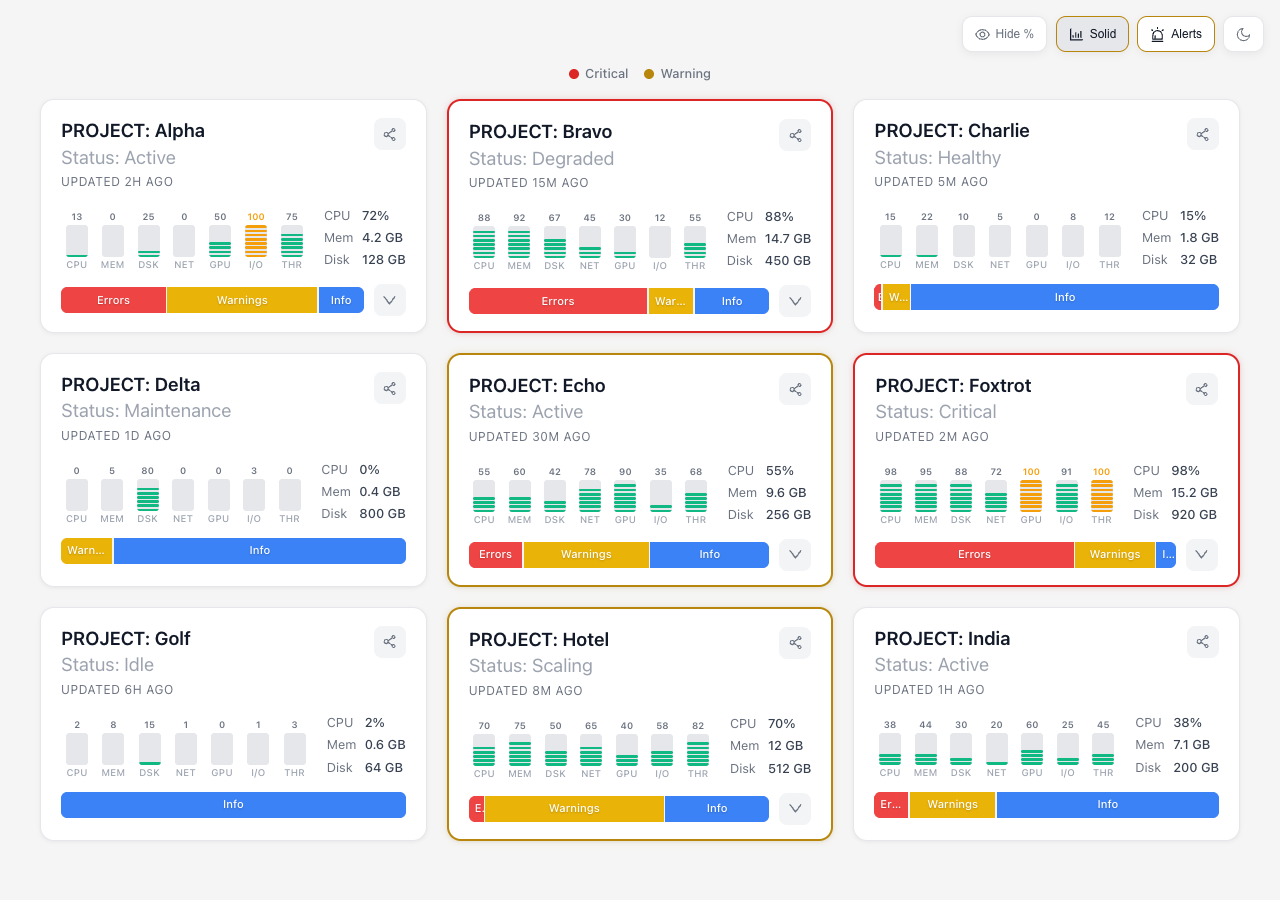
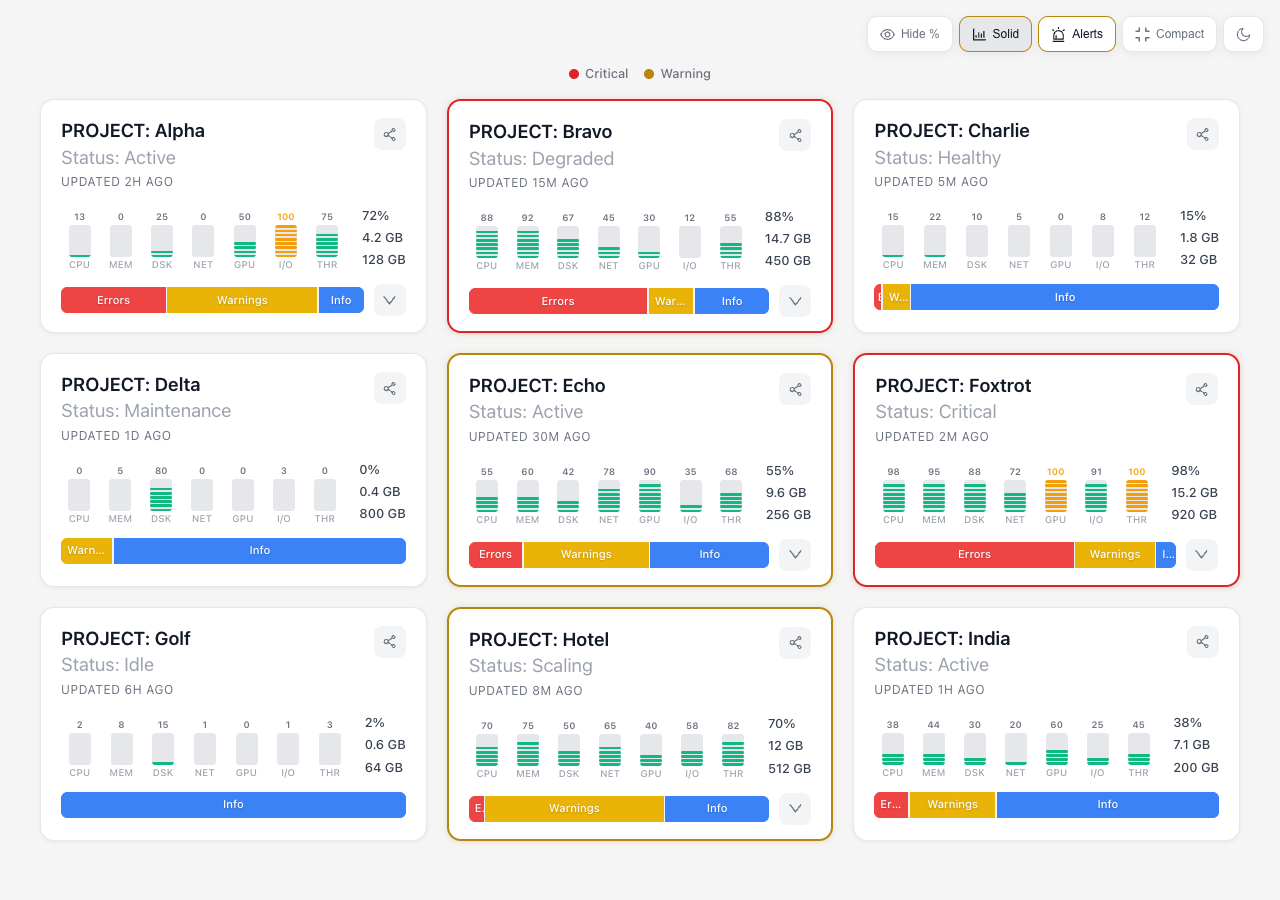
Update screenshots and README with compact view and responsive toolbar
- Light desktop: normal view with segmented gauges
- Dark desktop: compact view showing 4-column dense layout
- Tablet: compact view at 768px
- Mobile: normal view at 375px with icon-only toolbar
- README updated with compact view and responsive toolbar features

diff --git a/README.md b/README.md
@@ -4,17 +4,17 @@ A responsive status card dashboard built with React, TypeScript, and Vite. Displ
 
 ## Screenshots
 
-### Light Theme (Desktop)
-![Light theme - 3 column grid](docs/screenshots/light-desktop.png)
+### Light Theme — Normal View (Desktop)
+![Light theme - 3 column grid with segmented gauges](docs/screenshots/light-desktop.png)
 
-### Dark Theme (Desktop)
-![Dark theme - 3 column grid](docs/screenshots/dark-desktop.png)
+### Dark Theme — Compact View (Desktop)
+![Dark theme - 4 column compact grid](docs/screenshots/dark-desktop.png)
 
-### Responsive - Tablet (768px)
-![Tablet view - 2 column grid](docs/screenshots/responsive-tablet.png)
+### Responsive — Compact View (Tablet 768px)
+![Tablet view - 2 column compact grid](docs/screenshots/responsive-tablet.png)
 
-### Responsive - Mobile (375px)
-![Mobile view - single column](docs/screenshots/responsive-mobile.png)
+### Responsive — Normal View (Mobile 375px)
+![Mobile view - single column with icon toolbar](docs/screenshots/responsive-mobile.png)
 
 ## Features
 
@@ -24,7 +24,9 @@ A responsive status card dashboard built with React, TypeScript, and Vite. Displ
 - **100% gauges highlighted** in amber/orange to signal resource saturation
 - **Percentage Labels** on gauges with a global toggle to show/hide
 - **Priority Borders** — red for critical cards, gold for warning cards, with a legend and toggle to enable/disable
+- **Compact View** — 4-column dense layout with title-only headers, mini gauges (3 states), thin status bars, and vertical stats
 - **Dark Theme** with a one-click toggle (sun/moon icon)
+- **Responsive Toolbar** — labels auto-hide on small screens, buttons wrap to fit
 - **Segmented Status Bar** showing error/warning/info distribution
 - **Expandable Cards** with additional detail panels
 - **Tooltips** on gauges and segments for precise values
